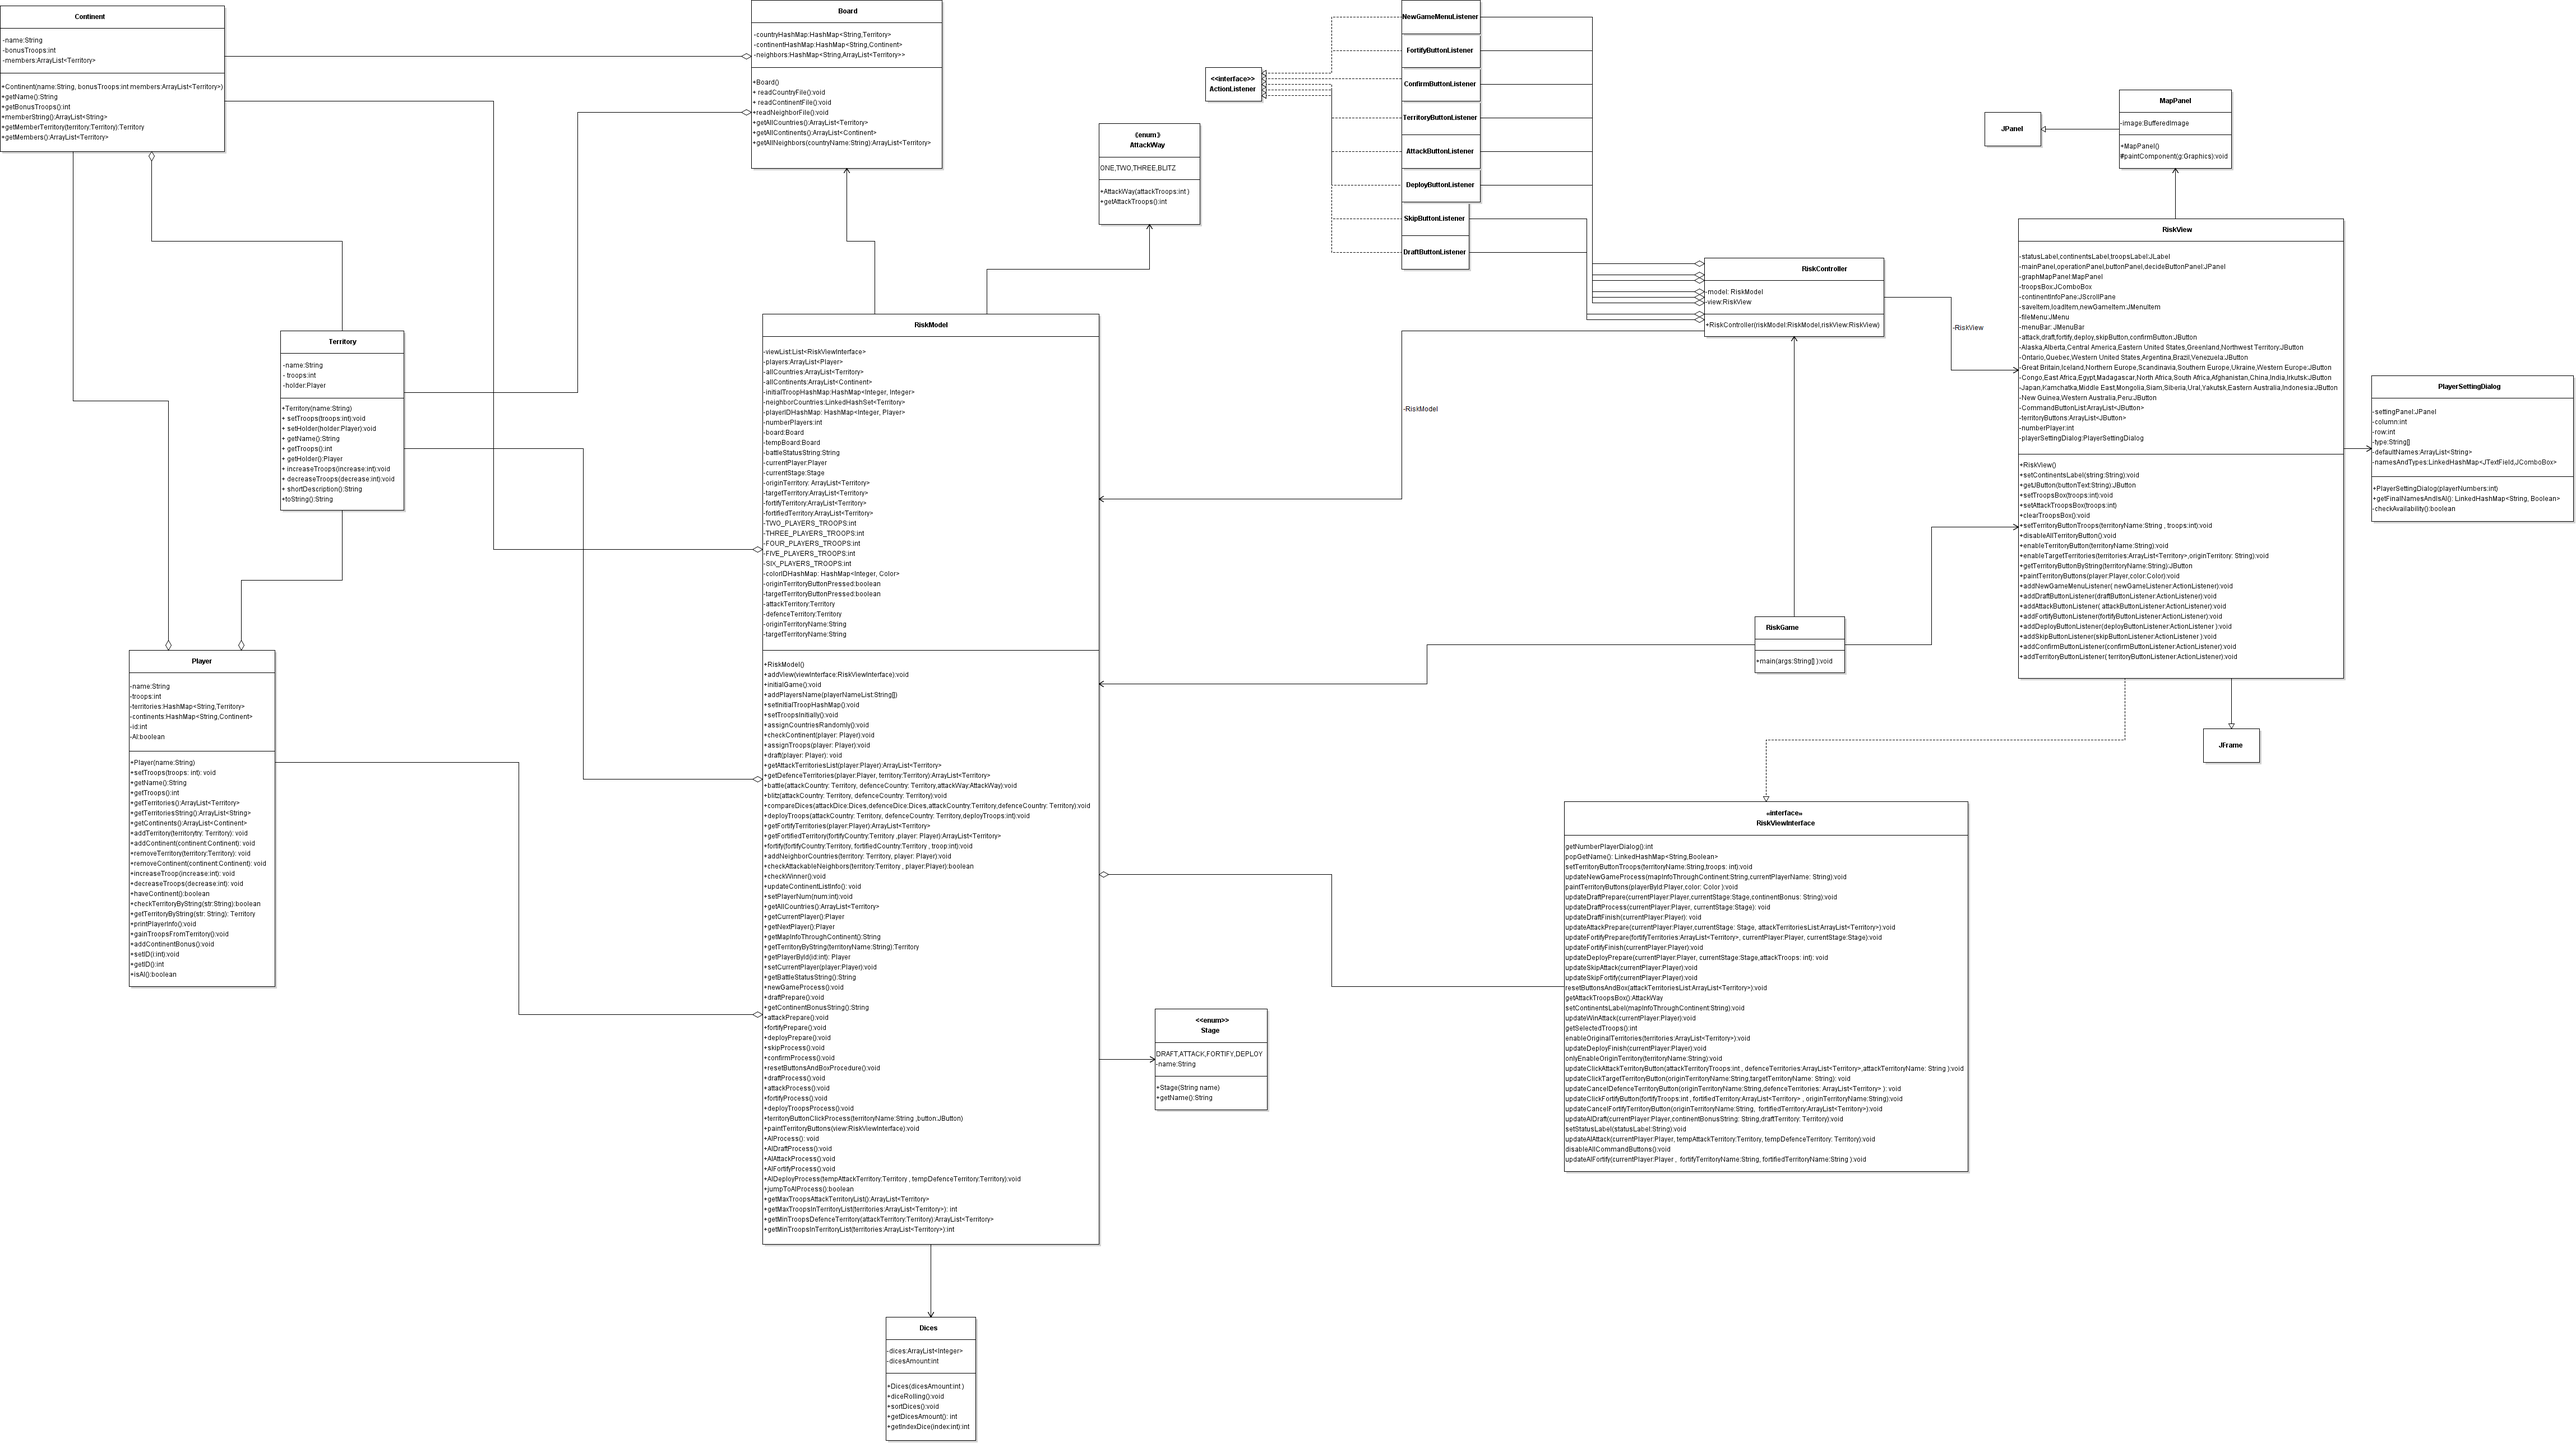
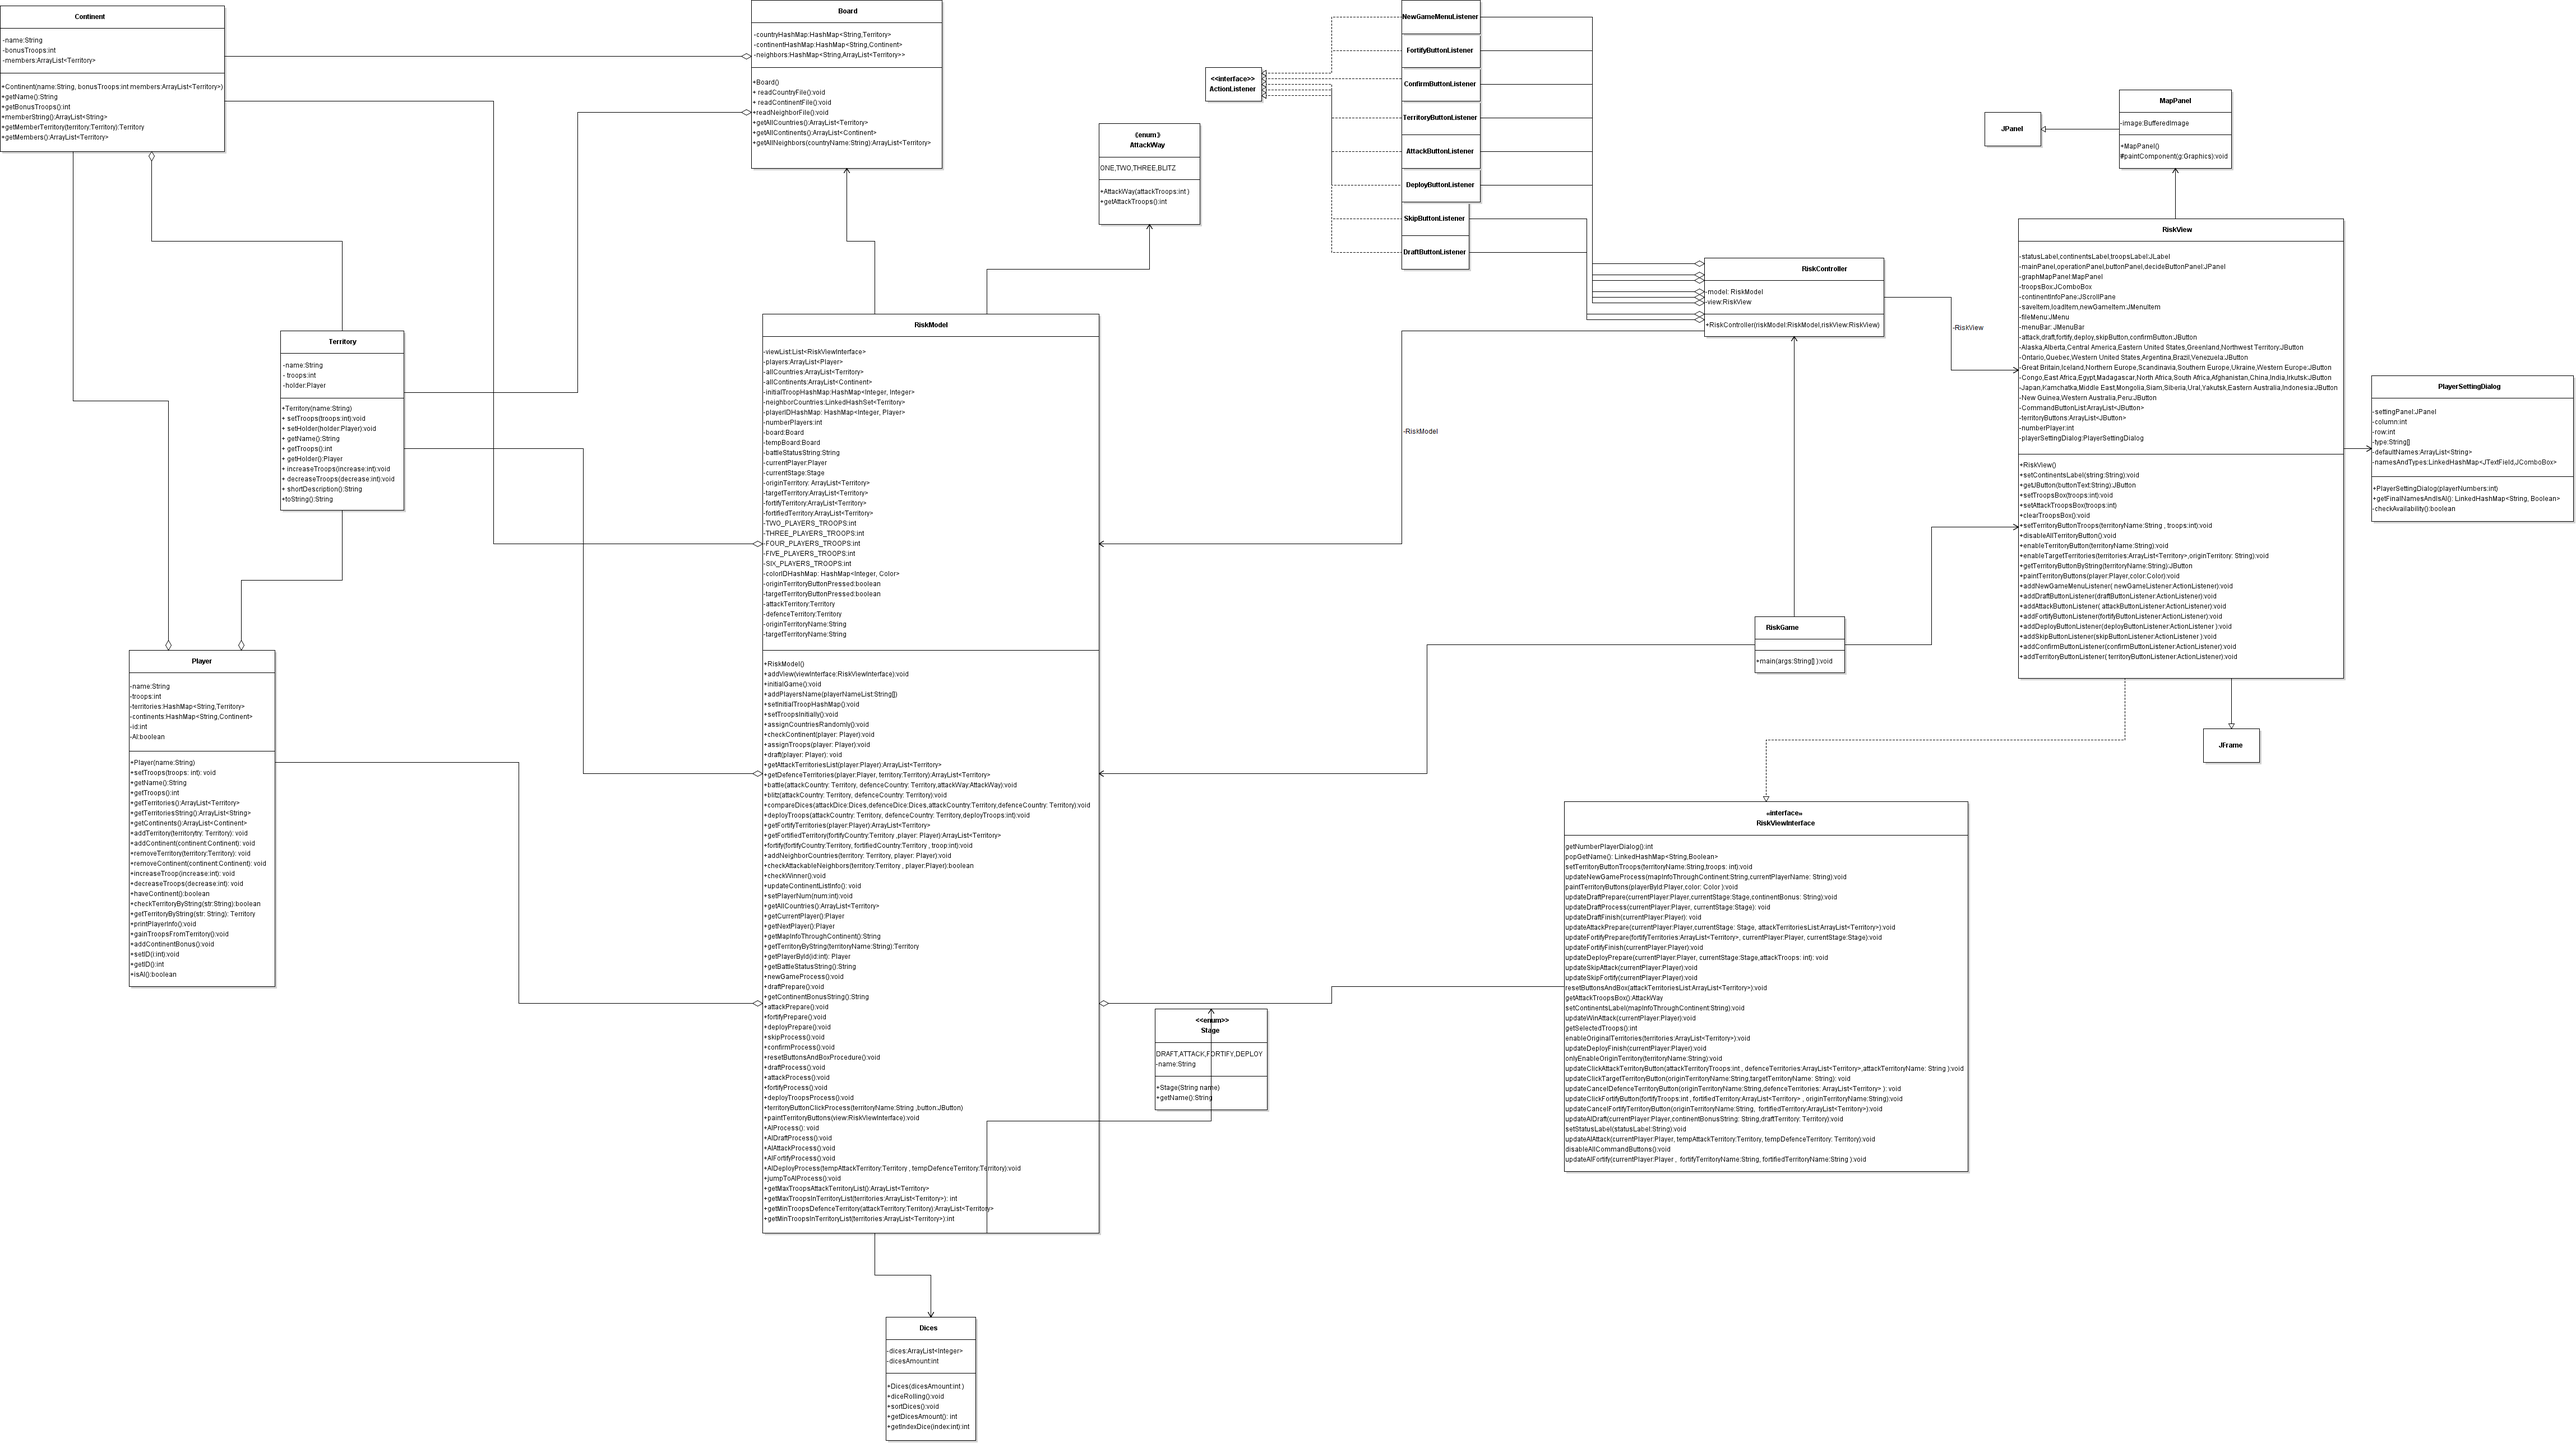
remove unused variable and update corresponding uml diagram

Changed region(s): [[0.2801, 0.466, 0.4046, 0.8699]]

diff --git a/test/RiskModelTest.java b/test/RiskModelTest.java
@@ -11,8 +11,8 @@ import static org.junit.Assert.assertEquals;
 public class RiskModelTest {
     private RiskModel riskModel;
     private Territory country1,country2;
-    private Player player1,player2,player3;
-    private String country1Name,country2Name;
+    private Player player1,player2;
+    private String country1Name;
 
 
     /**
@@ -22,19 +22,19 @@ public class RiskModelTest {
     public void setUp() throws Exception {
         riskModel = new RiskModel();
         riskModel.setPlayerNum(3);
-        riskModel.addPlayersName(new String[]{"Player_1", "Player_2","Player_3"},new Boolean[]{false,false,true});
+        riskModel.addPlayersName(new String[]{"Player_1", "Player_2"},new Boolean[]{false,false});
         riskModel.initialGame();
 
 
         player1 = riskModel.getCurrentPlayer();
         player2 = riskModel.getNextPlayer(player1.getID());
-        player3 = riskModel.getNextPlayer(player2.getID());
+
 
         country1 = player1.getTerritories().get(0);
         country2 = player2.getTerritories().get(0);
 
         country1Name = country1.getName();
-        country2Name = country2.getName();
+
 
 
 
@@ -151,19 +151,7 @@ public class RiskModelTest {
         assertEquals(origianlCountry2troops+moveCountry2troops,fortifiedcountry2.getTroops());
         //destination country troops increase
     }
-    @Test
-    public void testJumpToAIProcess(){
 
-       riskModel.setCurrentPlayer(player3);
-       assertEquals(true,riskModel.jumpToAIProcess());
-
-       riskModel.setCurrentPlayer(player2);
-       assertEquals(false,riskModel.jumpToAIProcess());
-
-        riskModel.setCurrentPlayer(player1);
-        assertEquals(false,riskModel.jumpToAIProcess());
-
-    }
 
 
 

diff --git a/src/RISK/RiskModel.java b/src/RISK/RiskModel.java
@@ -541,9 +541,7 @@ public class   RiskModel {
         }
         return null;
     }
-    public void setCurrentPlayer(Player player){
-        currentPlayer = player;
-    }
+
     /**
      * Getter for battleStatusString, used in GUI.
      *
@@ -1026,12 +1024,12 @@ public class   RiskModel {
     /**
      * Determine if the currentPlayer is AI, and do the corresponding actions
      */
-    public boolean jumpToAIProcess(){
+    public void jumpToAIProcess(){
         if(currentPlayer.isAI()){
             AIProcess();
-            return true;
+            return;
         }
-        return false;
+
     }
 
     /**
